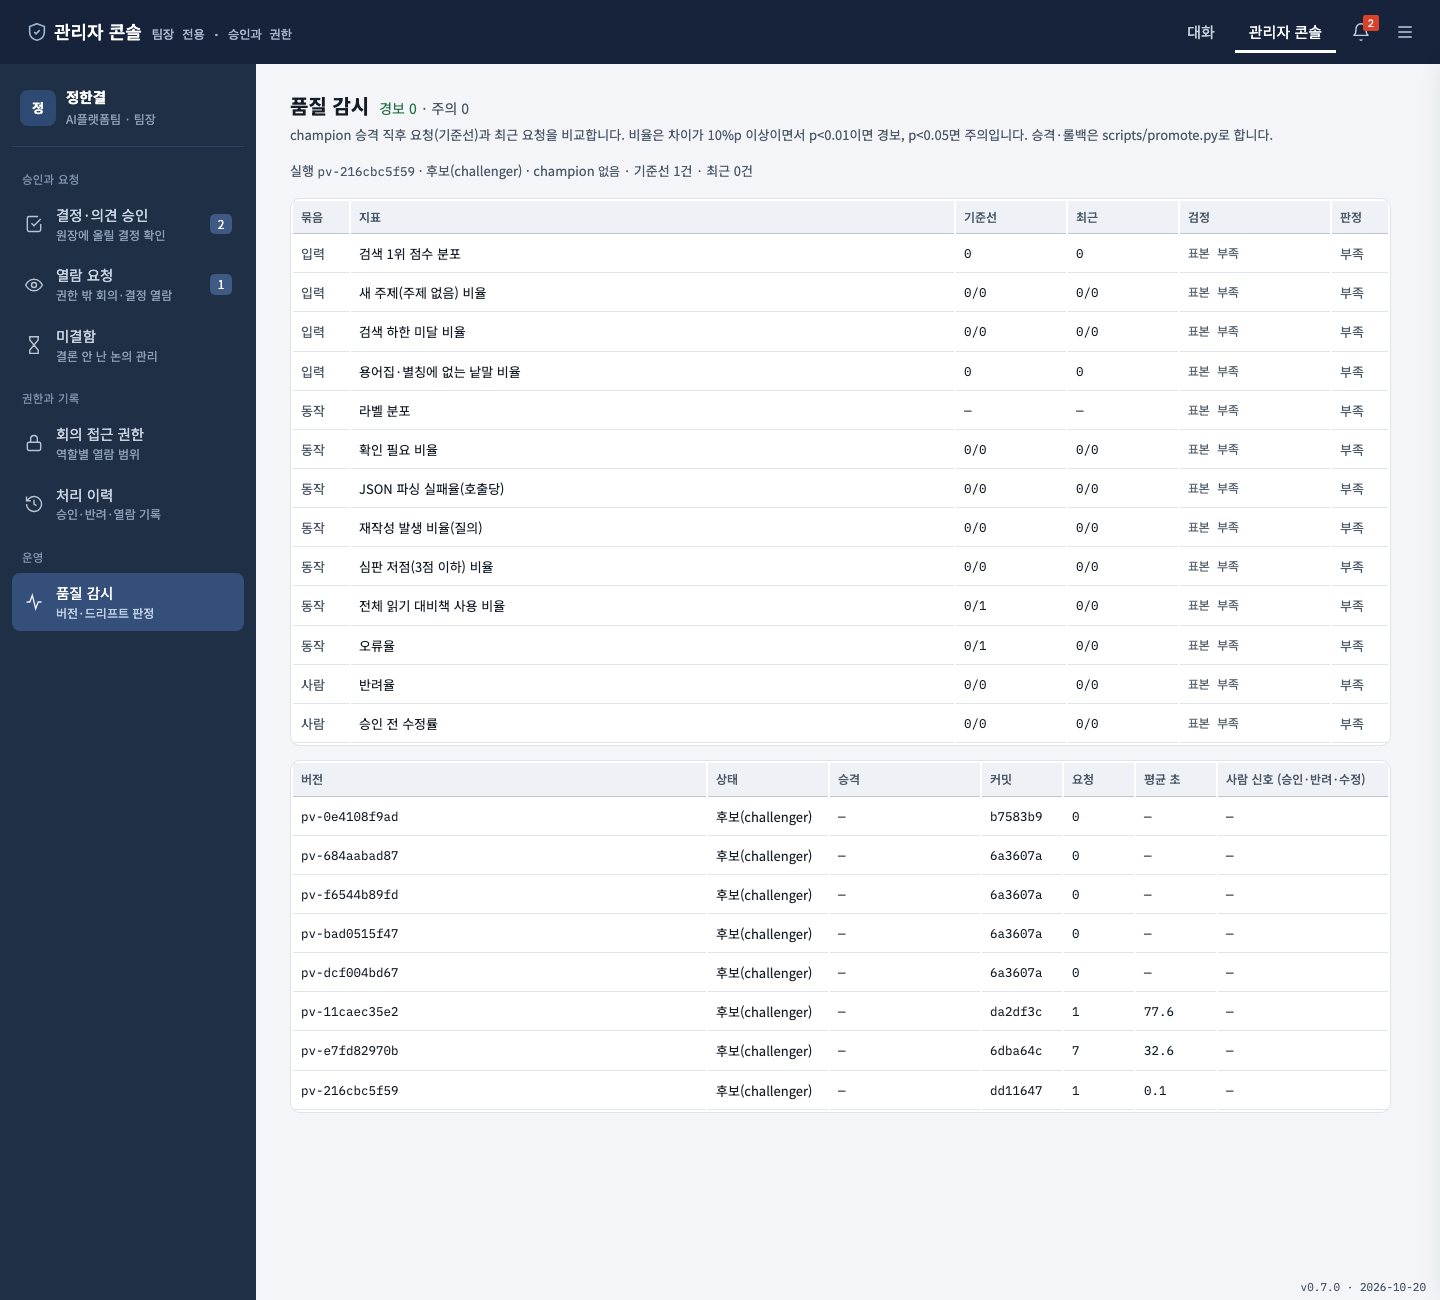
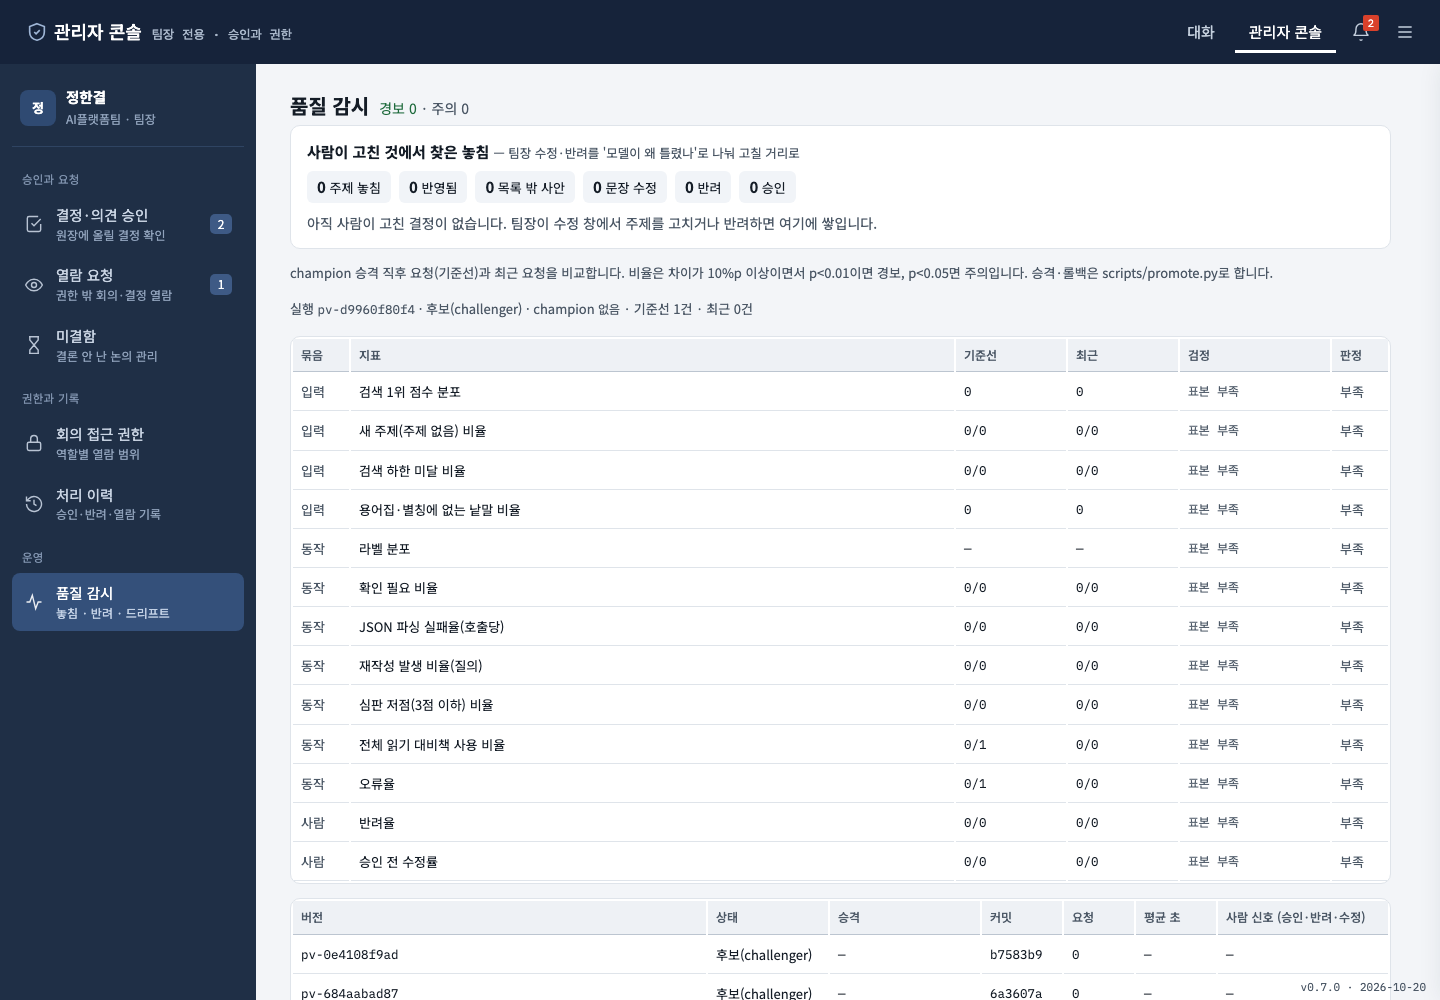
품질 감시에 '사람이 고친 것에서 찾은 놓침' 추가
팀장이 주제를 이미 있던 주제로 고치면 주제 놓침으로 보고 결정 문장의 낱말에서 별칭 후보를 낸다.
후보를 누르면 별칭이 보태지고 색인이 다시 만들어지며 그 놓침은 '반영됨'이 된다.
새 주제 생성(목록 밖 사안), 문장 수정, 반려 사유도 따로 모은다.

diff --git a/web_chat.html b/web_chat.html
@@ -256,6 +256,11 @@ tr.stale td { background: #fffaf2; }
 .tp-form { border: 1px dashed var(--line2); border-radius: 8px; padding: 10px 12px; display: flex; flex-direction: column; gap: 8px; background: #fbfcfe; }
 .tp-form p { margin: 0; font-size: 12.5px; } .tp-act { display: flex; gap: 8px; align-items: center; justify-content: flex-end; }
 .err2 { color: #a32d2d; font-size: 12.5px; flex: 1; } .ok2 { color: #27500A; font-size: 12.5px; flex: 1; }
+.fb { background: #fff; border: 1px solid var(--line); border-radius: 10px; padding: 14px 16px; margin-bottom: 14px; }
+.fb-h { font-size: 15px; margin: 0 0 8px; } .fb-h .muted { font-weight: 400; font-size: 12.5px; }
+.fb-sum { display: flex; flex-wrap: wrap; gap: 8px; margin-bottom: 10px; } .fb-sum span { background: #f1f4f8; border-radius: 6px; padding: 4px 10px; font-size: 13px; }
+.fb-sum span.hot { background: #fdecea; color: #a32d2d; } .fb-sum b { font-size: 15px; }
+.fb-chip { border: 1px solid var(--accent); color: var(--accent); border-radius: 6px; padding: 1px 7px; font-size: 12.5px; margin: 2px 4px 2px 0; background: #fff; } .fb-chip:hover { background: #e6eef9; }
 .ed-ft { display: flex; align-items: center; gap: 8px; padding: 12px 20px; border-top: 1px solid var(--line); } .ed-ft .muted { flex: 1; font-size: 12.5px; }
 .ver { position: absolute; right: 14px; bottom: 4px; font-size: 11px; color: var(--muted); font-family: var(--mono); }
 
@@ -542,7 +547,7 @@ tr.lock td { color: var(--muted); }
             <button :class="{ on: atab === 'acl' }" @click="atab = 'acl'; sel = ''; loadAcl()"><svg viewBox="0 0 24 24" fill="none" stroke="currentColor" stroke-width="1.7"><rect x="4" y="11" width="16" height="10" rx="2"/><path d="M8 11V7a4 4 0 0 1 8 0v4"/></svg><span>회의 접근 권한<small>역할별 열람 범위</small></span></button>
             <button :class="{ on: atab === 'his' }" @click="atab = 'his'; sel = '';"><svg viewBox="0 0 24 24" fill="none" stroke="currentColor" stroke-width="1.7"><path d="M3 12a9 9 0 1 0 3-6.7L3 8"/><path d="M3 3v5h5M12 7v5l3 2"/></svg><span>처리 이력<small>승인·반려·열람 기록</small></span></button>
             <div class="adm-sec">운영</div>
-            <button :class="{ on: atab === 'mon' }" @click="atab = 'mon'; sel = ''; loadMonitor()"><svg viewBox="0 0 24 24" fill="none" stroke="currentColor" stroke-width="1.7"><path d="M3 12h4l3-8 4 16 3-8h4"/></svg><span>품질 감시<small>버전·드리프트 판정</small></span><em v-if="mon && mon.alerts" class="warn">{{ mon.alerts }}</em></button>
+            <button :class="{ on: atab === 'mon' }" @click="atab = 'mon'; sel = ''; loadMonitor()"><svg viewBox="0 0 24 24" fill="none" stroke="currentColor" stroke-width="1.7"><path d="M3 12h4l3-8 4 16 3-8h4"/></svg><span>품질 감시<small>놓침 · 반려 · 드리프트</small></span><em v-if="mon && mon.alerts" class="warn">{{ mon.alerts }}</em></button>
           </nav>
           <section class="adm-main">
             <div v-if="atab === 'dec'">
@@ -657,6 +662,21 @@ tr.lock td { color: var(--muted); }
 
             <div v-if="atab === 'mon'">
               <div class="adm-hd"><h2>품질 감시</h2><span class="muted" v-if="mon"><span :class="mon.alerts ? 'st-bad' : 'st-ok'">경보 {{ mon.alerts }}</span> · <span :class="mon.warnings ? 'st-wait' : ''">주의 {{ mon.warnings }}</span></span></div>
+              <div class="fb" v-if="fb">
+                <h3 class="fb-h">사람이 고친 것에서 찾은 놓침 <span class="muted">— 팀장 수정·반려를 '모델이 왜 틀렸나'로 나눠 고칠 거리로</span></h3>
+                <div class="fb-sum"><span v-for="(n, k) in fb.summary" :key="k" :class="{ hot: (k === '주제 놓침' || k === '반려') && n }"><b>{{ n }}</b> {{ k }}</span></div>
+                <table class="atable" v-if="fb.misses.length || fb.rejections.length">
+                  <tr><th style="width:110px">종류</th><th style="width:100px">결정</th><th>무엇이 틀렸나</th><th style="width:320px">고칠 거리</th><th style="width:80px">상태</th></tr>
+                  <tr v-for="(m, i) in fb.misses" :key="'m' + i"><td :class="m.kind.startsWith('주제') ? 'st-bad' : ''">{{ m.kind }}</td><td class="mono">{{ m.decision_id }}</td>
+                    <td>{{ m.why }}<div class="muted">{{ m.statement }}</div></td>
+                    <td><template v-if="m.alias_candidates.length"><span class="muted">{{ m.after }} 별칭 후보:</span>
+                      <button v-for="w in m.alias_candidates" :key="w" class="fb-chip" @click="addAlias(m.after, w)">+ {{ w }}</button></template>
+                      <span v-else class="muted">—</span></td>
+                    <td :class="m.status === '열림' ? 'st-wait' : 'st-ok'">{{ m.status }}</td></tr>
+                  <tr v-for="(r, i) in fb.rejections" :key="'r' + i"><td class="st-bad">반려</td><td class="mono">{{ r.decision_id }}</td><td>{{ r.reason }}<div class="muted">{{ r.statement }}</div></td><td class="muted">사유를 추출 규칙 점검에</td><td class="muted">기록</td></tr>
+                </table>
+                <p class="muted" v-else>아직 사람이 고친 결정이 없습니다. 팀장이 수정 창에서 주제를 고치거나 반려하면 여기에 쌓입니다.</p>
+              </div>
               <p class="note">champion 승격 직후 요청(기준선)과 최근 요청을 비교합니다. 비율은 차이가 10%p 이상이면서 p&lt;0.01이면 경보, p&lt;0.05면 주의입니다. 승격·롤백은 scripts/promote.py로 합니다.</p>
               <p v-if="!mon" class="muted">불러오는 중</p>
               <template v-else>
@@ -1180,7 +1200,16 @@ createApp({
     async function loadAcl() { acl.value = (await api(`/admin/acl?user=${me.value.user_id}`)).meetings; }
     const openItems = ref([]);
     const mon = ref(null);           // 품질 감시 (GET /admin/monitor)
-    async function loadMonitor() { if (me.value?.role === '팀장') mon.value = await api(`/admin/monitor?user=${me.value.user_id}`); }
+    const fb = ref(null);            // 놓침 신호 (GET /admin/feedback)
+    async function loadMonitor() {
+      if (me.value?.role !== '팀장') return;
+      mon.value = await api(`/admin/monitor?user=${me.value.user_id}`);
+      fb.value = await api(`/admin/feedback?user=${me.value.user_id}`).catch(() => null);
+    }
+    async function addAlias(topic, word) {   // 놓침에서 나온 별칭 후보를 보탠다 → 색인 다시 만듦 → 그 놓침은 '반영됨'
+      try { await post(`/topics/${topic}/aliases`, { user: me.value.user_id, aliases: [word] }); loadMonitor(); }
+      catch (e) { await ask({ title: '별칭 보태기 실패', message: String(e.message || e), cancel: '' }); }
+    }
     const monStatus = s => ({ champion: '운영 중(champion)', challenger: '후보(challenger)', retired: '내림(retired)' }[s] || '미등록');
     const monVal = v => v === null || v === undefined ? '—' : typeof v === 'object' ? (Object.entries(v).map(([k, n]) => k + ' ' + n).join(' · ') || '—') : v;
     async function loadOpen() { if (me.value?.role === '팀장') openItems.value = (await api(`/open-items?user=${me.value.user_id}`)).items; }
@@ -1458,7 +1487,7 @@ createApp({
       setInterval(loadNotes, 8000);
     })();
 
-    return { mon, loadMonitor, monStatus, monVal, ed, createTopic, addAliases, edPreview, moreCtx, edChanges, saveEdit, sel, openItems, loadOpen, closeOpen, editDec, prjOpts, mtgOpts, modelOpts, miniPos, miniEl, inputEl, autoGrow, miniOpen, miniY, miniM, miniCells, openMini, miniMove, pickMiniDate, presets, modelKey, scopePrj, scopeMtg, scopeDate, scopeMeetings, meetingDates, onScopeMtg, onScopePrj, onScopeDate, dlg, dlgInput, dlgClose, switchOpen, users, me, version, build, threads, threadId, threadBox, chatBox, threadRows, log, input, sending, page, notes, unread, popOpen,
+    return { fb, addAlias, mon, loadMonitor, monStatus, monVal, ed, createTopic, addAliases, edPreview, moreCtx, edChanges, saveEdit, sel, openItems, loadOpen, closeOpen, editDec, prjOpts, mtgOpts, modelOpts, miniPos, miniEl, inputEl, autoGrow, miniOpen, miniY, miniM, miniCells, openMini, miniMove, pickMiniDate, presets, modelKey, scopePrj, scopeMtg, scopeDate, scopeMeetings, meetingDates, onScopeMtg, onScopePrj, onScopeDate, dlg, dlgInput, dlgClose, switchOpen, users, me, version, build, threads, threadId, threadBox, chatBox, threadRows, log, input, sending, page, notes, unread, popOpen,
       drawer, selPrj, projects, meetings, ledger, reqSent, calY, calM, calCells, admin, doneDec, atab, acl, stab, ragCounts, ragQ, ragCol,
       ragFiltered, ragRows, samples, titleText, titleSub, md, when, userName, prjKey, prjColor, prjBg, scopeKo, durKo, todayIso, ragState,
       login, newChat, goHome, removeThread, openThread, send, onChatScroll, requestAccess, quickRequest, proposeOpinion, decide, toggleDecRole, decideReq, setAcl,

diff --git a/ledger/feedback.py b/ledger/feedback.py
@@ -1,0 +1,100 @@
+"""사람이 고친 흔적에서 모델이 놓친 것을 찾는다 — 품질 감시의 되먹임.
+
+반려율·수정률 같은 숫자는 '나빠졌다'까지만 알려 준다. 여기서는 사람이 한 수정 하나하나를
+'모델이 왜 틀렸나'로 나눠 고칠 거리로 올린다.
+
+- 주제 놓침: 팀장이 주제를 이미 목록에 있던 주제로 바꿨다 → 별칭이 비어 모델이 못 붙인 것.
+  결정 문장의 낱말 중 그 주제의 별칭에 없는 것을 별칭 후보로 낸다 (팀장이 누르면 보태짐)
+- 목록 밖 사안: 팀장이 새 주제를 만들었다 → 모델이 '새 주제'로 둔 게 맞았는지 확인
+- 문장 수정: 결정 요약을 사람이 고쳤다 → 추출 품질 신호
+- 반려: 결정이 아니었거나 틀린 결정 → 사유와 함께
+- 조용한 실패: 판정·기준 조회 실패가 '문제없음'으로 넘어가지 않았는지 (확인 필요로 간 건수)
+
+보태진 별칭이 생기면 그 놓침은 '반영됨'으로 표시해 고리가 닫혔는지 본다.
+"""
+from __future__ import annotations
+
+import json
+
+from . import aliases as A
+
+
+def _known_aliases(topic: str) -> set[str]:
+    """주제의 지금 별칭(정규화 표기)"""
+    return {a.key for a in A.aliases() if a.topic == topic}
+
+
+def alias_candidates(statement: str, topic: str, limit: int = 4) -> list[str]:
+    """
+    결정 문장에서 그 주제의 별칭에 없는 낱말 (별칭 후보)
+    Args:
+        statement: 결정 문장
+        topic:     사람이 고친 주제
+        limit:     최대 개수
+    Returns:
+        후보 낱말
+    Examples:
+        alias_candidates('캐시 적용 범위를 런북 문서로 제한', 'cache') -> ['런북', '문서', …] (별칭에 없는 것만)
+    """
+    have = _known_aliases(topic)
+    out = []
+    for w in A.content_words(statement):
+        if len(w) >= 2 and A._key(w) not in have and w not in out:   # pylint: disable=protected-access
+            out.append(w)
+    return out[:limit]
+
+
+def report(events: list[dict], decisions: dict[str, dict], base_topics: set[str]) -> dict:
+    """
+    놓침 신호 보고서
+    Args:
+        events:      회의 기록 이력 (records.events())
+        decisions:   결정 ID → 결정 (statement 등)
+        base_topics: 기본 주제 목록의 키 (팀장이 새로 만든 주제와 구분)
+    Returns:
+        {"misses": [...], "rejections": [...], "summary": {...}}
+    """
+    def detail(e):
+        d = e.get("detail")
+        return json.loads(d) if isinstance(d, str) else (d or {})
+
+    added_topics = {e["target"] for e in events if e["kind"] == "topic_added"}
+    alias_added = {}
+    for e in events:
+        if e["kind"] == "aliases_added":
+            alias_added.setdefault(e["target"], set()).update(detail(e).get("added", []))
+    misses, rejections = [], []
+    for e in events:
+        d = detail(e)
+        if e["kind"] == "decision_edited":
+            ch = d.get("changed", {})
+            st = (decisions.get(e["target"]) or {}).get("statement", "")
+            if "topic" in ch:
+                before, after = ch["topic"].get("before") or "", ch["topic"].get("after") or ""
+                if after in added_topics and after not in base_topics:
+                    kind, why = "목록 밖 사안", "팀장이 새 주제를 만듦 — 모델이 '새 주제'로 둔 게 맞았는지"
+                    cands, done = [], True
+                else:
+                    kind = "주제 놓침" if not before else "주제 오분류"
+                    why = (f"목록에 있던 '{after}'를 모델이 못 붙임" if not before
+                           else f"모델은 '{before}', 사람은 '{after}'")
+                    cands = alias_candidates(st, after)
+                    done = bool(alias_added.get(after))
+                misses.append({"kind": kind, "decision_id": e["target"], "statement": st, "before": before,
+                               "after": after, "why": why, "alias_candidates": cands,
+                               "status": "반영됨" if done else "열림", "at": e["at"], "actor": e.get("actor")})
+            if "statement" in ch:
+                misses.append({"kind": "문장 수정", "decision_id": e["target"], "statement": st,
+                               "before": ch["statement"].get("before", ""), "after": ch["statement"].get("after", ""),
+                               "why": "결정 요약을 사람이 고침 — 추출 품질", "alias_candidates": [],
+                               "status": "기록", "at": e["at"], "actor": e.get("actor")})
+        elif e["kind"] == "decision_rejected":
+            rejections.append({"decision_id": e["target"], "reason": d.get("reason") or "(사유 없음)",
+                               "statement": (decisions.get(e["target"]) or {}).get("statement", ""),
+                               "at": e["at"], "actor": e.get("actor")})
+    topic_misses = [m for m in misses if m["kind"] in ("주제 놓침", "주제 오분류")]
+    summary = {"주제 놓침": len(topic_misses), "반영됨": sum(m["status"] == "반영됨" for m in topic_misses),
+               "목록 밖 사안": sum(m["kind"] == "목록 밖 사안" for m in misses),
+               "문장 수정": sum(m["kind"] == "문장 수정" for m in misses), "반려": len(rejections),
+               "승인": sum(e["kind"] == "decision_approved" for e in events)}
+    return {"misses": misses[::-1], "rejections": rejections[::-1], "summary": summary}

diff --git a/tests/test_feedback.py b/tests/test_feedback.py
@@ -1,0 +1,35 @@
+"""사람이 고친 흔적에서 놓침을 찾는 보고서."""
+# pylint: disable=missing-function-docstring
+import json
+import sys
+from pathlib import Path
+
+sys.path.insert(0, str(Path(__file__).resolve().parent.parent))
+from ledger import feedback  # noqa: E402
+
+
+def ev(kind, target, detail, at="2026-10-22T10:00:00"):
+    return {"kind": kind, "target": target, "detail": json.dumps(detail, ensure_ascii=False), "at": at, "actor": "정한결"}
+
+
+def test_topic_fix_to_existing_topic_is_a_miss_with_alias_candidates_and_closes_when_alias_added():
+    decs = {"OPS-0031": {"statement": "알림은 메신저 웹훅 채널로 보낸다"}}
+    events = [ev("decision_edited", "OPS-0031", {"changed": {"topic": {"before": "", "after": "release"}}})]
+    r = feedback.report(events, decs, {"release", "cache"})
+    m = r["misses"][0]
+    assert m["kind"] == "주제 놓침" and m["status"] == "열림" and m["alias_candidates"]
+    events.append(ev("aliases_added", "release", {"topic": "release", "added": ["웹훅"]}))
+    assert feedback.report(events, decs, {"release", "cache"})["misses"][0]["status"] == "반영됨"
+
+
+def test_new_topic_and_wrong_topic_and_rejection_are_separated():
+    decs = {"A": {"statement": "공지는 슬랙으로"}, "B": {"statement": "캐시는 런북만"}}
+    events = [ev("topic_added", "notice.channel", {}),
+              ev("decision_edited", "A", {"changed": {"topic": {"before": "", "after": "notice.channel"}}}),
+              ev("decision_edited", "B", {"changed": {"topic": {"before": "session.store", "after": "cache"},
+                                                      "statement": {"before": "캐시", "after": "캐시는 런북만"}}}),
+              ev("decision_rejected", "B", {"reason": "결정 아님"})]
+    r = feedback.report(events, decs, {"cache", "session.store"})
+    kinds = sorted(m["kind"] for m in r["misses"])
+    assert kinds == ["목록 밖 사안", "문장 수정", "주제 오분류"]
+    assert r["summary"]["반려"] == 1 and r["rejections"][0]["reason"] == "결정 아님"

diff --git a/ledger/monitor_api.py b/ledger/monitor_api.py
@@ -9,6 +9,7 @@ server.py가 include_router로 붙이고, 상태는 app.state(metrics, versions,
 """
 from __future__ import annotations
 
+import json
 import time
 
 from fastapi import APIRouter, HTTPException, Request
@@ -105,3 +106,26 @@ async def admin_monitor(request: Request, user: str):
         raise HTTPException(403, "팀장만 할 수 있습니다.")
     return monitor.report(st.metrics, MeetingRecords(), pipeline_registry.Registry(), LedgerStore(),
                           running=st.versions["accurate"])
+
+
+@router.get("/admin/feedback")
+async def admin_feedback(request: Request, user: str):
+    """
+    사람이 고친 흔적에서 찾은 놓침 — 주제 놓침(별칭 후보)·목록 밖 사안·문장 수정·반려 (팀장 전용)
+    Args:
+        request: 요청 (app.state 접근)
+        user:    요청한 사용자 ID
+    Returns:
+        feedback.report 결과 (misses, rejections, summary)
+    Raises:
+        HTTPException: 403 — 팀장이 아님
+    """
+    from . import aliases, feedback, vocab  # pylint: disable=import-outside-toplevel
+    st = request.app.state
+    if not st.access.is_lead(user):
+        raise HTTPException(403, "팀장만 할 수 있습니다.")
+    aliases.reload()                       # 별칭은 MCP 서버가 보탠다 — 이 프로세스의 캐시를 새로 읽는다
+    store = LedgerStore()
+    decisions = {d["decision_id"]: d for d in store.decisions()}
+    base = set(json.loads((vocab.DATA / "topics.json").read_text(encoding="utf-8"))["topics"])
+    return feedback.report(MeetingRecords().events(), decisions, base)
